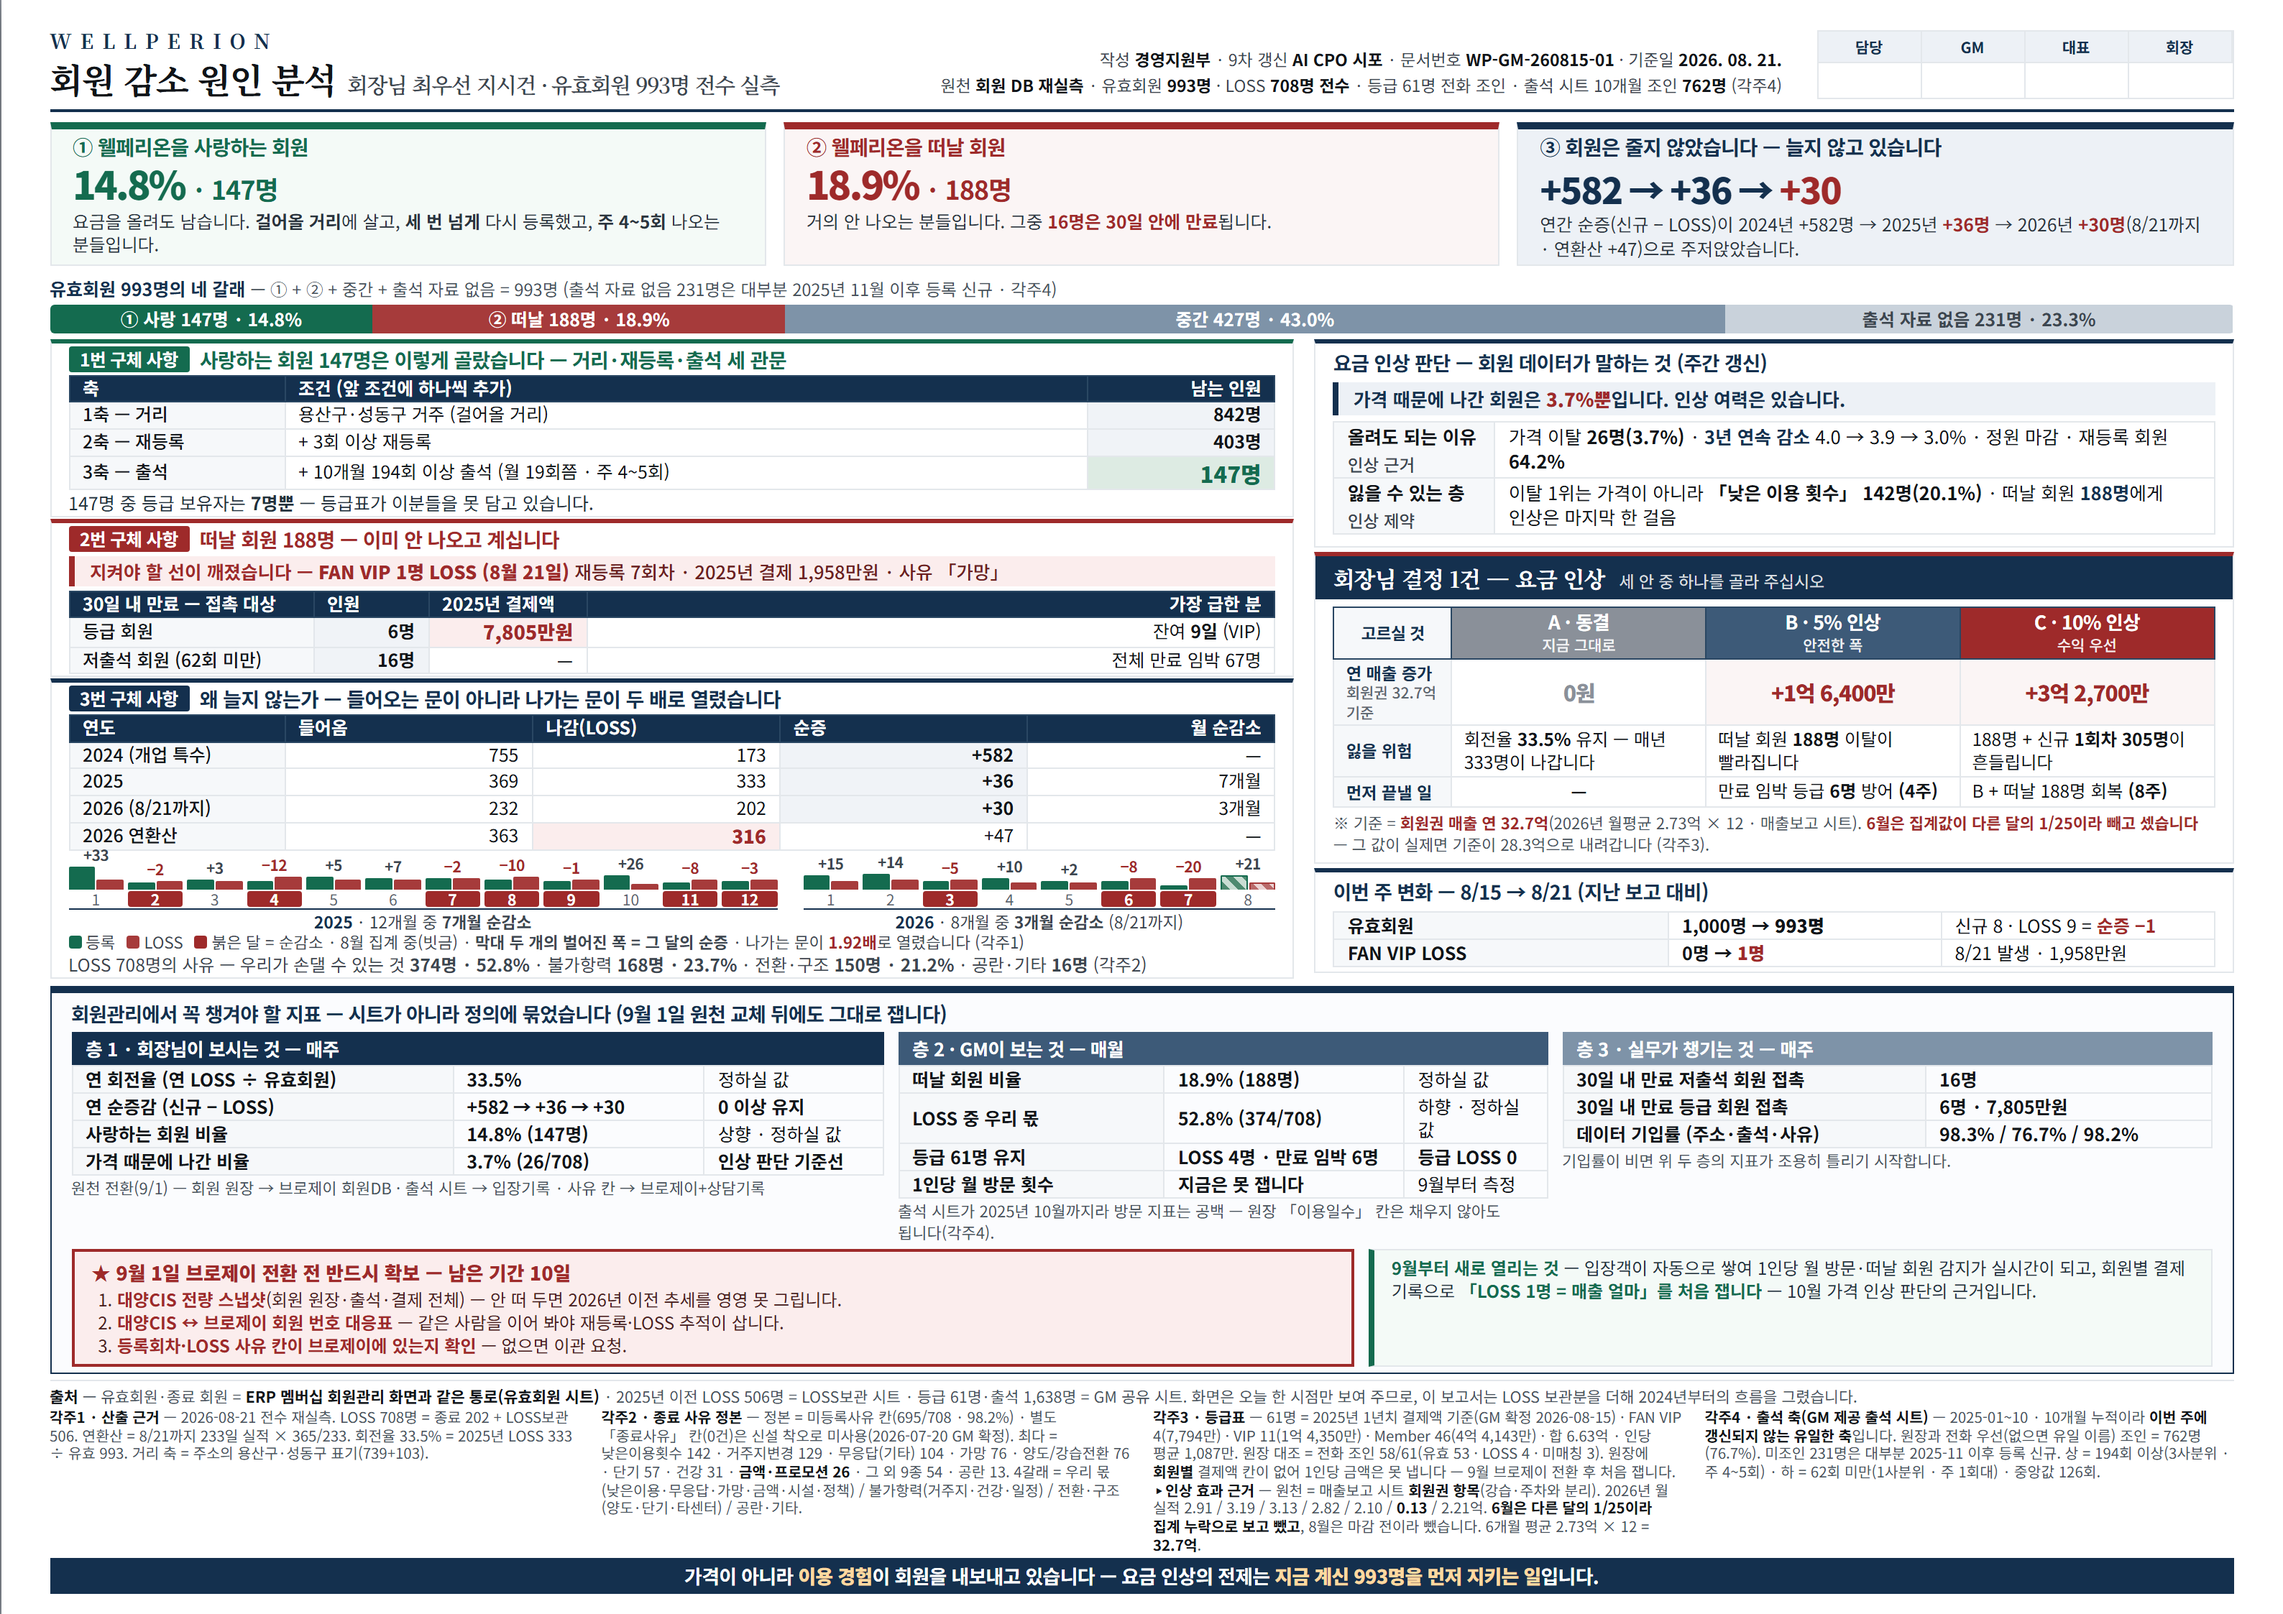
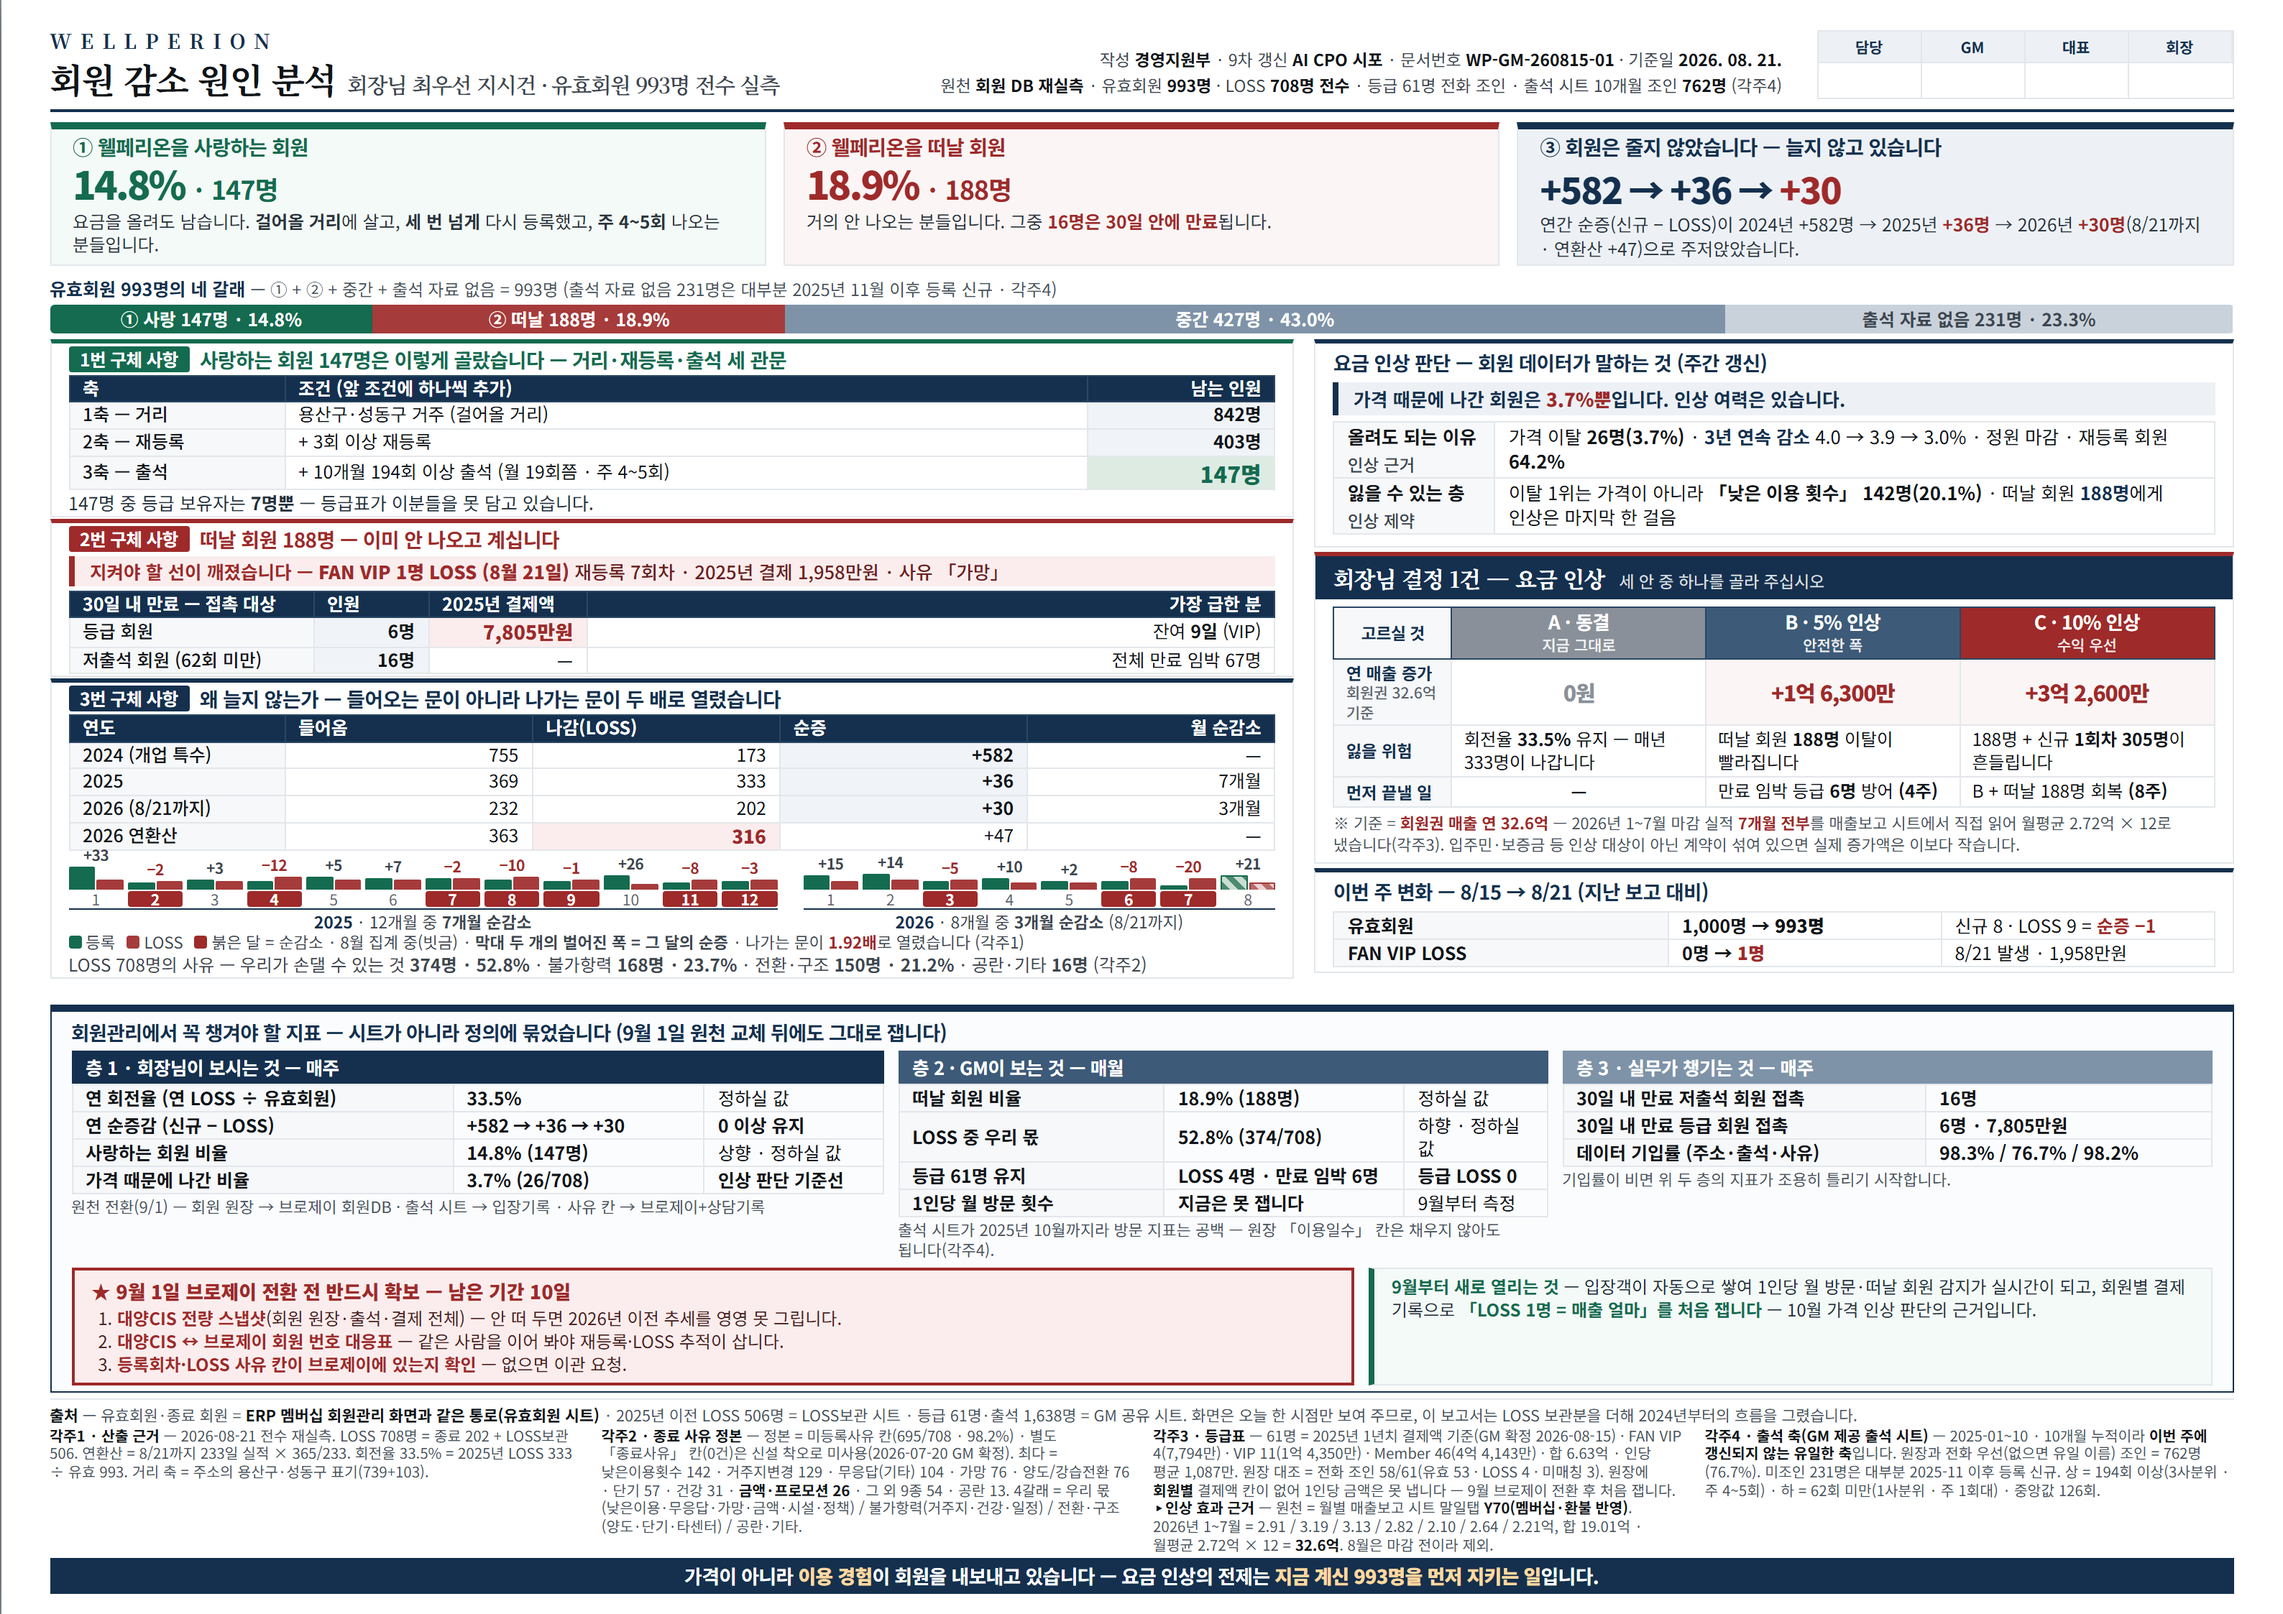
fix(cpo): 6월 회원권 매출 정정 — 이상치가 아니라 매출 GAS 캐시 오류였다
GM 이 '6월 31시트 Y70 봐' 라고 짚어 주셔서 시트를 직접 읽었다.

- 6월 31탭 Y70 실측 = 264,471,218원(정상 규모).
- 앞서 sales_month GAS 가 준 12,601,940 은 20분 SWR 캐시의 낡은 값이었다.
  응답에 stale:true 가 찍혀 있었는데 그것을 데이터 이상으로 오독했다.
- 시트를 직접 읽는 경로(sales_probe, win=monthly, V60:AB90 의 Y70)로 1~7월 전수 재확인:
    2.91 / 3.19 / 3.13 / 2.82 / 2.10 / 2.64 / 2.21억 · 합 19.01억 · 월평균 2.72억

결과: 연 회원권 32.7억(6월 제외 추정) -> 32.6억(7개월 전부 실적). 금액은 거의 같지만
'이상치를 뺐다' 는 판단 자체가 사라져 근거가 단단해졌다.
  B 5%  +1억 6,400만 -> +1억 6,300만
  C 10% +3억 2,700만 -> +3억 2,600만
각주3 을 실측 기준으로 다시 쓰고 6월 이상치 서술을 삭제.

교훈: 집계값을 볼 때는 stale 표시를 먼저 읽는다. 요약 API 가 이상해 보이면 원천 셀을
직접 열어 본다(약속 L25 — 재기 전에 말하지 않는다).

렌더 검증: A3 넘침 0 · PNG 동시 갱신.

Changed region(s): [[0.0, 0.5922, 0.9663, 0.9662], [0.5923, 0.4987, 0.9663, 0.5298]]

diff --git a/3. 웰페리온 가이드/reports/260815_회원감소원인분석_A3.html b/3. 웰페리온 가이드/reports/260815_회원감소원인분석_A3.html
@@ -402,10 +402,10 @@
           </thead>
           <tbody>
             <tr>
-              <td class="rk">연 매출 증가<span style="display:block;font-weight:500;font-size:10.5px;color:#5C666F">회원권 32.7억 기준</span></td>
+              <td class="rk">연 매출 증가<span style="display:block;font-weight:500;font-size:10.5px;color:#5C666F">회원권 32.6억 기준</span></td>
               <td class="money zero">0원</td>
-              <td class="money up">+1억 6,400만</td>
-              <td class="money up">+3억 2,700만</td>
+              <td class="money up">+1억 6,300만</td>
+              <td class="money up">+3억 2,600만</td>
             </tr>
             <tr>
               <td class="rk">잃을 위험</td>
@@ -421,7 +421,7 @@
             </tr>
           </tbody>
         </table>
-        <div class="asknote">※ 기준 = <b>회원권 매출 연 32.7억</b>(2026년 월평균 2.73억 × 12 · 매출보고 시트). <b>6월은 집계값이 다른 달의 1/25이라 빼고 셌습니다</b> — 그 값이 실제면 기준이 28.3억으로 내려갑니다 (각주3).</div>
+        <div class="asknote">※ 기준 = <b>회원권 매출 연 32.6억</b> — 2026년 1~7월 마감 실적 <b>7개월 전부</b>를 매출보고 시트에서 직접 읽어 월평균 2.72억 × 12로 냈습니다(각주3). 입주민·보증금 등 인상 대상이 아닌 계약이 섞여 있으면 실제 증가액은 이보다 작습니다.</div>
         </div>
       </div>
 
@@ -500,7 +500,7 @@
   <div class="foot">
     <div><b>각주1 · 산출 근거</b> — 2026-08-21 전수 재실측. LOSS 708명 = 종료 202 + LOSS보관 506. 연환산 = 8/21까지 233일 실적 × 365/233. 회전율 33.5% = 2025년 LOSS 333 ÷ 유효 993. 거리 축 = 주소의 용산구·성동구 표기(739+103).</div>
     <div><b>각주2 · 종료 사유 정본</b> — 정본 = 미등록사유 칸(695/708 · 98.2%) · 별도 「종료사유」 칸(0건)은 신설 착오로 미사용(2026-07-20 GM 확정). 최다 = 낮은이용횟수 142 · 거주지변경 129 · 무응답(기타) 104 · 가망 76 · 양도/강습전환 76 · 단기 57 · 건강 31 · <b>금액·프로모션 26</b> · 그 외 9종 54 · 공란 13. 4갈래 = 우리 몫(낮은이용·무응답·가망·금액·시설·정책) / 불가항력(거주지·건강·일정) / 전환·구조(양도·단기·타센터) / 공란·기타.</div>
-    <div><b>각주3 · 등급표</b> — 61명 = 2025년 1년치 결제액 기준(GM 확정 2026-08-15) · FAN VIP 4(7,794만) · VIP 11(1억 4,350만) · Member 46(4억 4,143만) · 합 6.63억 · 인당 평균 1,087만. 원장 대조 = 전화 조인 58/61(유효 53 · LOSS 4 · 미매칭 3). 원장에 <b>회원별</b> 결제액 칸이 없어 1인당 금액은 못 냅니다 — 9월 브로제이 전환 후 처음 잽니다.<br><b>▸인상 효과 근거</b> — 원천 = 매출보고 시트 <b>회원권 항목</b>(강습·주차와 분리). 2026년 월 실적 2.91 / 3.19 / 3.13 / 2.82 / 2.10 / <b>0.13</b> / 2.21억. <b>6월은 다른 달의 1/25이라 집계 누락으로 보고 뺐고</b>, 8월은 마감 전이라 뺐습니다. 6개월 평균 2.73억 × 12 = <b>32.7억</b>.</div>
+    <div><b>각주3 · 등급표</b> — 61명 = 2025년 1년치 결제액 기준(GM 확정 2026-08-15) · FAN VIP 4(7,794만) · VIP 11(1억 4,350만) · Member 46(4억 4,143만) · 합 6.63억 · 인당 평균 1,087만. 원장 대조 = 전화 조인 58/61(유효 53 · LOSS 4 · 미매칭 3). 원장에 <b>회원별</b> 결제액 칸이 없어 1인당 금액은 못 냅니다 — 9월 브로제이 전환 후 처음 잽니다.<br><b>▸인상 효과 근거</b> — 원천 = 월별 매출보고 시트 말일탭 <b>Y70(멤버십·환불 반영)</b>. 2026년 1~7월 = 2.91 / 3.19 / 3.13 / 2.82 / 2.10 / 2.64 / 2.21억, 합 19.01억 · 월평균 2.72억 × 12 = <b>32.6억</b>. 8월은 마감 전이라 제외.</div>
     <div><b>각주4 · 출석 축(GM 제공 출석 시트)</b> — 2025-01~10 · 10개월 누적이라 <b>이번 주에 갱신되지 않는 유일한 축</b>입니다. 원장과 전화 우선(없으면 유일 이름) 조인 = 762명(76.7%). 미조인 231명은 대부분 2025-11 이후 등록 신규. 상 = 194회 이상(3사분위 · 주 4~5회) · 하 = 62회 미만(1사분위 · 주 1회대) · 중앙값 126회.</div>
   </div>
 
